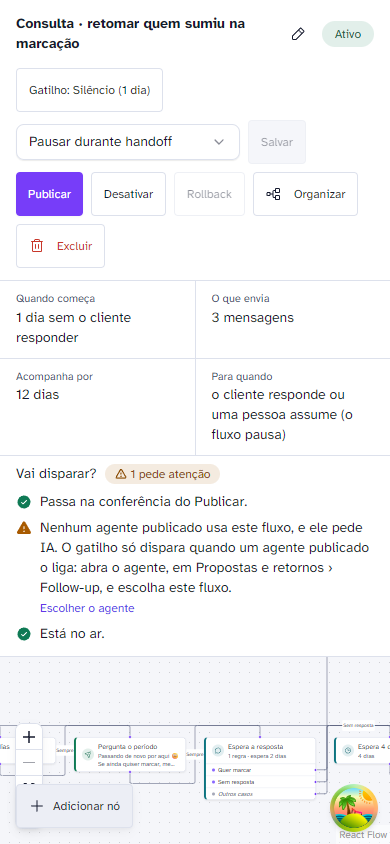
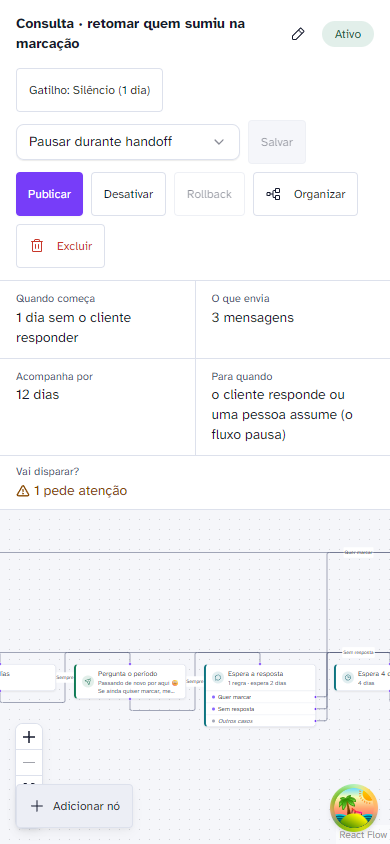
Construtor de follow-up: Vai disparar? vira celula da faixa e abre como painel sobreposto
A faixa abria sozinha com a conferencia aberta e empurrava o canvas para baixo: os e2e que
arrastam nos para posicoes fixas (followup-builder ai_classify, followup-journey) deixavam de
alcancar a area do desenho e nenhuma aresta nascia. Agora a faixa e uma linha de 58 px
(Vai disparar? e a quinta celula) e as conferencias abrem em painel absoluto, sem mudar a
altura do canvas (medido: caixa do canvas identica antes e depois de abrir). O resumo do
gatilho passa a dizer 1 hora e 10 min-1 hora, e os dois e2e que liam 60 min e 10-60 min foram
atualizados.

diff --git a/app/app/ai/followups/[id]/_components/ResumoDoFluxo.tsx b/app/app/ai/followups/[id]/_components/ResumoDoFluxo.tsx
@@ -114,80 +114,83 @@ export function ResumoDoFluxo({ grafo, triggerConfig, handoff, status, agentesQu
     <section
       aria-label={t("O que este fluxo faz")}
       data-testid="resumo-do-fluxo"
-      className="border-b border-border bg-surface"
+      className="relative z-20 border-b border-border bg-surface"
     >
-      <dl className="grid grid-cols-2 gap-px bg-border lg:grid-cols-4">
+      <dl className="grid grid-cols-2 gap-px bg-border lg:grid-cols-[1fr_1fr_1fr_1.5fr_auto]">
         {celulas.map((c) => (
-          <div
-            key={c.id}
-            data-testid={`resumo-${c.id}`}
-            className="bg-surface px-4 py-2.5"
-          >
+          <div key={c.id} data-testid={`resumo-${c.id}`} className="bg-surface px-4 py-2.5">
             <dt className="text-[11px] text-muted-foreground">{c.titulo}</dt>
             <dd className={cn("text-sm font-medium", c.destaque && "text-warning-fg")}>{c.texto}</dd>
           </div>
         ))}
-      </dl>
 
-      <details data-testid="vai-disparar" open={comAtencao > 0} className="group border-t border-border">
-        <summary className="flex cursor-pointer list-none items-center gap-2 px-4 py-2 text-sm [&::-webkit-details-marker]:hidden">
-          <span className="font-medium">{t("Vai disparar?")}</span>
-          {comAtencao === 0 ? (
-            <span
-              data-testid="vai-disparar-estado"
-              data-estado="ok"
-              className="inline-flex items-center gap-1 rounded-full bg-success-bg px-2.5 py-0.5 text-xs font-medium text-success-fg"
-            >
-              <CheckCircle size={12} weight="bold" aria-hidden />
-              {t("Tudo certo")}
-            </span>
-          ) : (
-            <span
-              data-testid="vai-disparar-estado"
-              data-estado="atencao"
-              className="inline-flex items-center gap-1 rounded-full bg-warning-bg px-2.5 py-0.5 text-xs font-medium text-warning-fg"
-            >
-              <Warning size={12} weight="bold" aria-hidden />
-              {comAtencao === 1 ? t("1 pede atenção") : `${comAtencao} ${t("pedem atenção")}`}
-            </span>
-          )}
-          <span className="ml-auto text-xs text-muted-foreground group-open:hidden">{t("ver as conferências")}</span>
-        </summary>
-        <ul className="space-y-1.5 px-4 pb-3">
-          {conferencias.map((c) => (
-            <li
-              key={c.id}
-              data-testid={`conferencia-${c.id}`}
-              data-estado={c.estado}
-              className="flex items-start gap-2 text-sm"
-            >
-              {c.estado === "ok" ? (
-                <CheckCircle size={16} weight="fill" aria-hidden className="mt-0.5 shrink-0 text-success" />
-              ) : c.estado === "atencao" ? (
-                <Warning size={16} weight="fill" aria-hidden className="mt-0.5 shrink-0 text-warning" />
+        {/*
+          "Vai disparar?" é uma célula da mesma faixa, e as conferências abrem como PAINEL SOBREPOSTO
+          (`absolute`), nunca empurrando o canvas: o construtor depende de a área do desenho não
+          mudar de altura quando alguém abre ou fecha uma conferência. O estado (verde ou âmbar)
+          fica sempre à vista no botão; o detalhe só abre por clique.
+        */}
+        <div className="relative col-span-2 bg-surface lg:col-span-1">
+          <details data-testid="vai-disparar" className="group">
+            <summary className="flex h-full min-h-[3.25rem] cursor-pointer list-none flex-col justify-center px-4 py-2 [&::-webkit-details-marker]:hidden">
+              <span className="text-[11px] text-muted-foreground">{t("Vai disparar?")}</span>
+              {comAtencao === 0 ? (
+                <span
+                  data-testid="vai-disparar-estado"
+                  data-estado="ok"
+                  className="inline-flex w-fit items-center gap-1 text-sm font-medium text-success-fg"
+                >
+                  <CheckCircle size={14} weight="bold" aria-hidden />
+                  {t("Tudo certo")}
+                </span>
               ) : (
-                <Info size={16} aria-hidden className="mt-0.5 shrink-0 text-muted-foreground" />
+                <span
+                  data-testid="vai-disparar-estado"
+                  data-estado="atencao"
+                  className="inline-flex w-fit items-center gap-1 text-sm font-medium text-warning-fg"
+                >
+                  <Warning size={14} weight="bold" aria-hidden />
+                  {comAtencao === 1 ? t("1 pede atenção") : `${comAtencao} ${t("pedem atenção")}`}
+                </span>
               )}
-              <div className="min-w-0">
-                <p>{textoDaConferencia(c)}</p>
-                {c.id === "validacao" && c.estado === "atencao" ? (
-                  <ul className="mt-0.5 list-disc space-y-0.5 pl-4 text-xs text-muted-foreground">
-                    {c.detalhes.slice(0, 3).map((d) => (
-                      <li key={d}>{d}</li>
-                    ))}
-                    {c.detalhes.length > 3 ? <li>… {c.detalhes.length - 3} {t("a mais")}</li> : null}
-                  </ul>
-                ) : null}
-                {c.id === "agente" && c.motivo === "sem_agente" ? (
-                  <Link href="/app/ai/agents" className="text-xs font-medium text-ia underline-offset-2 hover:underline">
-                    {t("Escolher o agente")}
-                  </Link>
-                ) : null}
-              </div>
-            </li>
-          ))}
-        </ul>
-      </details>
+            </summary>
+            <ul className="absolute top-full right-0 z-30 w-[min(36rem,calc(100vw-1rem))] space-y-2 rounded-b-xl border border-border bg-surface p-4 shadow-lg">
+              {conferencias.map((c) => (
+                <li
+                  key={c.id}
+                  data-testid={`conferencia-${c.id}`}
+                  data-estado={c.estado}
+                  className="flex items-start gap-2 text-sm"
+                >
+                  {c.estado === "ok" ? (
+                    <CheckCircle size={16} weight="fill" aria-hidden className="mt-0.5 shrink-0 text-success" />
+                  ) : c.estado === "atencao" ? (
+                    <Warning size={16} weight="fill" aria-hidden className="mt-0.5 shrink-0 text-warning" />
+                  ) : (
+                    <Info size={16} aria-hidden className="mt-0.5 shrink-0 text-muted-foreground" />
+                  )}
+                  <div className="min-w-0">
+                    <p>{textoDaConferencia(c)}</p>
+                    {c.id === "validacao" && c.estado === "atencao" ? (
+                      <ul className="mt-0.5 list-disc space-y-0.5 pl-4 text-xs text-muted-foreground">
+                        {c.detalhes.slice(0, 3).map((d) => (
+                          <li key={d}>{d}</li>
+                        ))}
+                        {c.detalhes.length > 3 ? <li>… {c.detalhes.length - 3} {t("a mais")}</li> : null}
+                      </ul>
+                    ) : null}
+                    {c.id === "agente" && c.motivo === "sem_agente" ? (
+                      <Link href="/app/ai/agents" className="text-xs font-medium text-ia underline-offset-2 hover:underline">
+                        {t("Escolher o agente")}
+                      </Link>
+                    ) : null}
+                  </div>
+                </li>
+              ))}
+            </ul>
+          </details>
+        </div>
+      </dl>
     </section>
   );
 }

diff --git a/tests/e2e/pausa-de-reentrada.spec.ts b/tests/e2e/pausa-de-reentrada.spec.ts
@@ -47,7 +47,7 @@ test.describe("Pausa de reentrada do gatilho de silêncio", () => {
 
     const botao = page.getByTestId("trigger-config-button");
     await expect(botao).toBeVisible({ timeout: 60_000 });
-    await expect(botao).toHaveText(/Silêncio \(60 min\)/);
+    await expect(botao).toHaveText(/Silêncio \(1 hora\)/);
 
     await botao.click();
     const painel = page.getByTestId("trigger-config-panel");
@@ -104,7 +104,7 @@ test.describe("Pausa de reentrada do gatilho de silêncio", () => {
     await expect(painel.getByTestId("trigger-config-save")).toBeEnabled();
     await captura(page, "silencio-01-teto-de-60");
     await painel.getByTestId("trigger-config-save").click();
-    await expect(botao).toHaveText(/10–60 min/, { timeout: 30_000 });
+    await expect(botao).toHaveText(/10 min–1 hora/, { timeout: 30_000 });
     await expect
       .poll(async () => (await gatilhoGravado()).params)
       .toMatchObject({ threshold_minutes: 10, max_silence_minutes: 60 });

diff --git a/tests/unit/construtor-de-followup-guiado.test.tsx b/tests/unit/construtor-de-followup-guiado.test.tsx
@@ -130,8 +130,8 @@ describe("'Vai disparar?'", () => {
     expect(item).toHaveAttribute("data-estado", "atencao");
     expect(item).toHaveTextContent("Nenhum agente publicado usa este fluxo");
     expect(within(item).getByRole("link", { name: "Escolher o agente" })).toHaveAttribute("href", "/app/ai/agents");
-    // Com atenção pendente, as conferências já vêm abertas.
-    expect(screen.getByTestId("vai-disparar")).toHaveAttribute("open");
+    // O estado fica à vista no botão, e o detalhe abre só por clique: nunca empurra o canvas.
+    expect(screen.getByTestId("vai-disparar")).not.toHaveAttribute("open");
   });
 
   it("o mesmo fluxo com um agente publicado usando: tudo certo, e o agente é citado", () => {

diff --git a/docs/testing/user-journey-map.md b/docs/testing/user-journey-map.md
@@ -144,7 +144,7 @@ fonte só (`lib/onboarding/passos.ts`) — eram três listas que discordavam. Ga
 | J3.22 | Criar o primeiro agente pelo assistente passo a passo (24/10/2026): negócio, o que faz, como fala, quando chamar uma pessoa, criar e testar | o botão Novo agente abre `?modo=assistente`; o tipo de negócio fica sempre à vista, em 9 categorias com ícone e os tipos da categoria aberta (36 no total, busca por digitação), e recomenda o modelo e o tom, com o motivo escrito e o aviso dos ramos regulados; "Voltar à sugestão" restaura o texto; "Prefiro o editor completo" leva o que foi respondido ao `AgentForm` (`?de=assistente`) e o convite do editor devolve ao assistente; criar salva UM rascunho pela mesma `createMcpAgentAction` e abre a aba Teste; sem chave de IA a estação 5 explica e linka as chaves, sem perder as respostas; a prévia das estações 1 a 4 nunca chama a IA · **PASS na vitrine local (1440 e 390 px, claro, escuro e movimento reduzido: `docs/testing/evidencias/assistente-de-agente/`) e no componente (`tests/unit/assistente-de-agente.test.tsx`)**; e2e `tests/e2e/agente-assistente-pela-tela.spec.ts` roda só no CI |
 | J3.23 | Configurar um agente no editor completo, guiado (25/10/2026): força do agente, selo por parte, recomendações com motivo, exemplos e a prévia de "Jeito de responder" | o topo do editor mostra a **Força do agente** (nome 10, personalidade 20, material 20, ações 15, chamar uma pessoa 15, número 10, boas-vindas 5, modelo 5) e o próximo passo de maior peso, com "Ir para lá" que rola até a parte; cada parte leva o selo Pronto, Revisar ou Opcional (erro de validação na parte vira Revisar); sem material e com "chamar uma pessoa" desligado aparece a faixa Recomendado com o motivo; os pacotes Atender, Vender e Passar para um humano levam o selo Recomendado e o motivo; os campos Quem ele é, Objetivo e Boas-vindas têm "Ver exemplos" (os textos dos modelos, aplicam com um clique e, se havia texto, a confirmação traz Desfazer); em "Jeito de responder" a prévia mostra 1 bolha em texto único e 3 em mensagens curtas, experimentar um tom não toca o formulário e "Usar este tom" grava · **PASS na vitrine local (1440 e 390 px, claro e escuro: `docs/testing/evidencias/editor-guiado/`, medidas em `medidas.json`: 0 px de rolagem horizontal, alvos de 36 px, força 75% → 95% ao marcar um material) e no componente (`tests/unit/editor-guiado-do-agente.test.tsx`, `lib/ai/agents/guia-do-editor.test.ts`)**; a prova em produção entra após o deploy |
 | J3.24 | Configurar a distribuição de atendimento, guiada (28/10/2026): quem recebe agora, recomendação pelo tamanho da equipe e um Salvar só | a faixa **Quem recebe agora** mostra "N de M podem receber agora", quem é o próximo da vez (rodízio ou menos conversas) e a fila, calculados com as regras do roteamento (`isAttendantEligible`, `selectRoundRobin`, `getQueueStatus`); com 0 disponíveis (o estado de uma instalação nova) aparece o aviso e o atalho para Equipe › Atendimento; a recomendação (1 pessoa: cada um pega; 2 a 6: rodízio; 7 ou mais: menos conversas) vem com o motivo e o selo e nunca muda o que está salvo; "só os seus" com "cada um pega" continua avisando; as decisões e o ajuste fino (devolução à IA, silêncio, fica com quem atendeu, assinatura) saem de **um** Salvar, e o ajuste fino fica em "Mais ajustes", fechado, com a contagem do que está fora do padrão · **PASS na vitrine local (1440 e 390 px, claro e escuro, cenários com equipe e sem ninguém disponível: `docs/testing/evidencias/distribuicao-guiada/`, `medidas.json`: 0 px de rolagem horizontal, alvos de 36 px) e nos componentes (`tests/unit/distribuicao-de-atendimento-guiada.test.tsx`, `lib/routing/situacao-da-distribuicao.test.ts`, `lib/routing/recomendacao-de-distribuicao.test.ts`)**; e2e `distribuicao-atendimento.spec.ts` e `roteamento-por-canal.spec.ts` rodam só no CI; a prova em produção entra após o deploy |
-| J3.25 | Montar um follow-up no construtor, guiado (28/10/2026): tempo em dias, "O que este fluxo faz" e "Vai disparar?" | o card e o gatilho dizem "1 dia" em vez de "1440 min" e os campos de tempo em minutos ganham "= 1 dia" e atalhos com os tempos dos modelos prontos (valor gravado segue em minutos); a faixa **O que este fluxo faz** lê o rascunho a cada edição (quando começa, N mensagens, acompanha por, para quando; sem número quando o grafo tem repetição); **Vai disparar?** confere a validação do Publicar, se o fluxo que pede IA com gatilho automático tem um agente publicado que o usa (texto fixo não precisa) e se está publicado; abre sozinha quando há algo a corrigir; o roteiro de atendimento não ganha a faixa · **PASS na vitrine local (1440 e 390 px, claro e escuro, cenários com texto fixo, IA sem agente, IA com agente e fluxo vazio: `docs/testing/evidencias/construtor-de-followup-guiado/`, `medidas.json`: 0 px de rolagem horizontal, atalhos de 36 px, "12 dias" igual ao da galeria) e nos componentes (`tests/unit/construtor-de-followup-guiado.test.tsx`, `lib/followup/{duracao,resumo-do-fluxo}.test.ts`, `lib/followup/modelos/esperas.test.ts`)**; os e2e do construtor rodam só no CI; a prova em produção entra após o deploy |
+| J3.25 | Montar um follow-up no construtor, guiado (28/10/2026): tempo em dias, "O que este fluxo faz" e "Vai disparar?" | o card e o gatilho dizem "1 dia" em vez de "1440 min" e os campos de tempo em minutos ganham "= 1 dia" e atalhos com os tempos dos modelos prontos (valor gravado segue em minutos); a faixa **O que este fluxo faz** lê o rascunho a cada edição (quando começa, N mensagens, acompanha por, para quando; sem número quando o grafo tem repetição); **Vai disparar?** confere a validação do Publicar, se o fluxo que pede IA com gatilho automático tem um agente publicado que o usa (texto fixo não precisa) e se está publicado; é uma célula da mesma faixa e as conferências abrem como painel sobreposto (nunca empurram o canvas, de que os e2e de arrastar nós dependem); o roteiro de atendimento não ganha a faixa · **PASS na vitrine local (1440 e 390 px, claro e escuro, cenários com texto fixo, IA sem agente, IA com agente e fluxo vazio: `docs/testing/evidencias/construtor-de-followup-guiado/`, `medidas.json`: 0 px de rolagem horizontal, atalhos de 36 px, "12 dias" igual ao da galeria) e nos componentes (`tests/unit/construtor-de-followup-guiado.test.tsx`, `lib/followup/{duracao,resumo-do-fluxo}.test.ts`, `lib/followup/modelos/esperas.test.ts`)**; os e2e do construtor rodam só no CI; a prova em produção entra após o deploy |
 
 ## Chaves de acesso à IA `[P0]`
 

diff --git a/.changes/construtor-de-followup-guiado.md b/.changes/construtor-de-followup-guiado.md
@@ -6,4 +6,4 @@ titulo: O construtor de follow-up mostra o que o fluxo faz, escreve o tempo em d
 
 No construtor de follow-up, o tempo deixa de ser um número solto. Uma espera de um dia aparece como **"1 dia"** no cartão e no gatilho, em vez de "1440 min", e os campos de tempo (a espera, o silêncio do gatilho, o silêncio máximo e a pausa antes de recomeçar) mostram o **equivalente em dias ou horas** ("= 1 dia") e **atalhos de um clique com os tempos que os modelos prontos do produto usam**, com a jornada de onde vêm ("2 horas · Falta", "10 dias · Cirurgia"). O campo continua em minutos e nada muda no que o motor faz.
 
-Entre a barra de publicar e o desenho do fluxo há uma faixa nova, **O que este fluxo faz**: quando começa, quantas mensagens envia, por quanto tempo acompanha e quando para (quando o cliente responde, ou quando uma pessoa assume). Ela é lida do próprio fluxo e acompanha cada edição. Logo abaixo, **Vai disparar?** confere o que antes só aparecia num diálogo da galeria: se o fluxo passa na conferência do Publicar, se está publicado, e se, **quando o fluxo pede IA e começa sozinho, existe um agente publicado que o usa** (fluxo de texto fixo não precisa de agente, e não avisa à toa). Quando há algo a corrigir, a conferência abre sozinha e diz onde resolver.
+Entre a barra de publicar e o desenho do fluxo há uma faixa nova, **O que este fluxo faz**: quando começa, quantas mensagens envia, por quanto tempo acompanha e quando para (quando o cliente responde, ou quando uma pessoa assume). Ela é lida do próprio fluxo e acompanha cada edição. Logo abaixo, **Vai disparar?** confere o que antes só aparecia num diálogo da galeria: se o fluxo passa na conferência do Publicar, se está publicado, e se, **quando o fluxo pede IA e começa sozinho, existe um agente publicado que o usa** (fluxo de texto fixo não precisa de agente, e não avisa à toa). Quando há algo a corrigir, o botão fica em âmbar e, ao clicar, a conferência abre sobre o desenho (sem empurrá-lo) e diz onde resolver.
